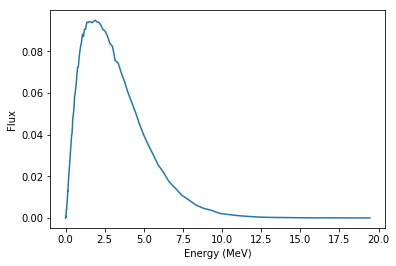
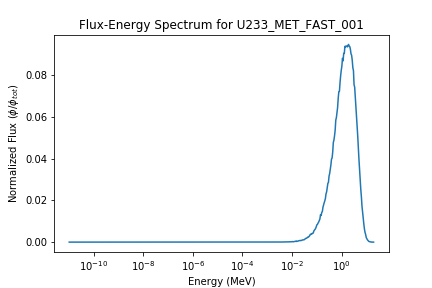
Created LEU_COMP_THERM_001_001 (without scattering)

diff --git a/U233_MET_FAST_001/U233_MET_FAST_001.py b/U233_MET_FAST_001/U233_MET_FAST_001.py
@@ -21,7 +21,10 @@ error = []
 for i in range(len(DETEnergyDetector)):
     scores.append(DETEnergyDetector[i][10])
 
-plt.plot(energy, scores)
+plt.figure()
+plt.semilogx(energy, scores)
 plt.xlabel('Energy (MeV)')
-plt.ylabel('Flux')
+plt.ylabel('Normalized Flux ($\phi$/$\phi_{tot}$)')
+plt.title('Flux-Energy Spectrum for U233_MET_FAST_001')
+plt.savefig('U233_MET_FAST_001_FluxEnergySpectrum.png')
 plt.show()
